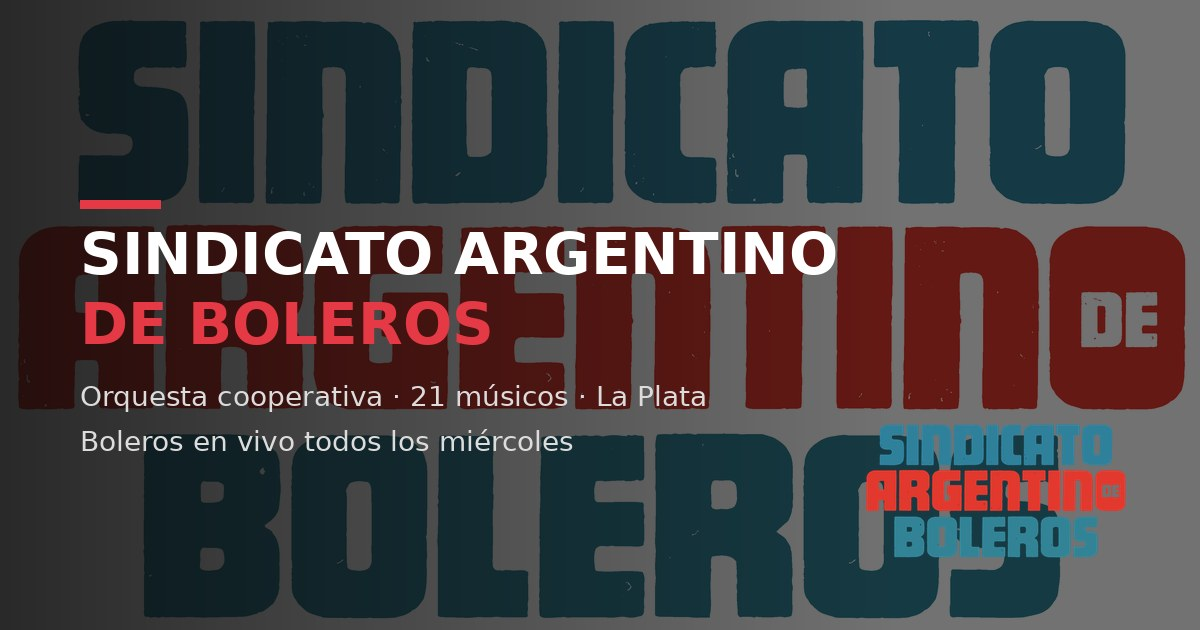
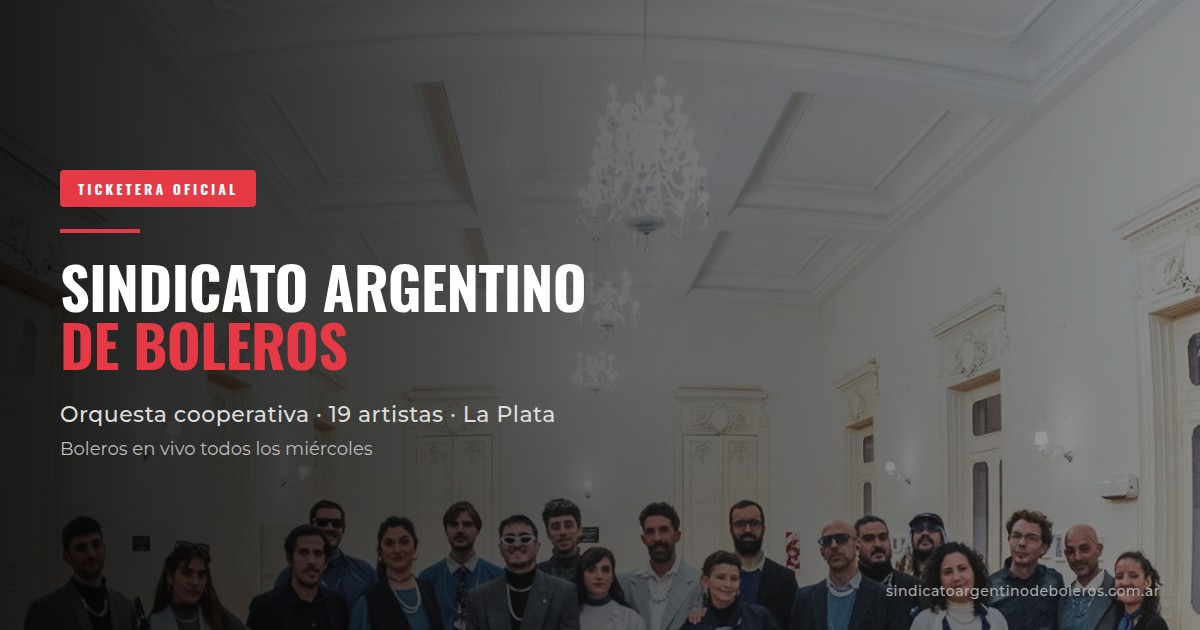
fix: hallazgos menores M3 + M4 de la auditoría
M3 — headers duplicados. helmet() y nginx setean ambos
x-frame-options, x-content-type-options y strict-transport-security.
Desactivo los 3 en helmet y dejo nginx como fuente única. Razón: los
headers de nginx aplican también a errores 502/503 donde Node no
responde — capa exterior, mayor cobertura.

M4 — og-image: "21 músicos" → "19 artistas". Regenerada con
Playwright desde HTML (1200×630, bg foto grupal real), actualizado
también el subheader "Boleros en vivo todos los miércoles" y badge
"Ticketera oficial" con URL. Más contemporánea que la versión anterior
(logo texturado + copy viejo). Pendiente del Sprint 1, ahora cerrado.

M1 (YouTube thumbnail 404) y M2 (Content-Security-Policy) analizados
durante la auditoría:
- M1: reclasificado como no-bug. El 404 es parte del fallback en cascada
  maxresdefault → sddefault → hqdefault intencional (ver comentario en
  app.js:148-150). Agregar try/catch no ayuda, es el protocolo correcto
  para lite embed.
- M2 (CSP): fuera del scope — diseñar política sin romper MP SDK,
  Bootstrap CDN, YouTube embed requiere testing caso por caso. Queda en
  backlog post-1/5.

diff --git a/src/server.js b/src/server.js
@@ -15,9 +15,16 @@ const { loginLimiter, comprasLimiter } = require('./middleware/rate-limit');
 
 const app = express();
 
-// Seguridad
+// Seguridad. Los headers que setea nginx (HSTS, X-Frame-Options,
+// X-Content-Type-Options) se desactivan acá para evitar duplicados — nginx
+// los aplica incluso cuando Node no responde (errores 502/503), por eso
+// queda como fuente de verdad. Helmet sigue aportando referrer-policy,
+// permissions-policy, origin-agent-cluster, etc.
 app.use(helmet({
   contentSecurityPolicy: false,
+  hsts: false,
+  xFrameOptions: false,
+  noSniff: false,
 }));
 
 // Logs
